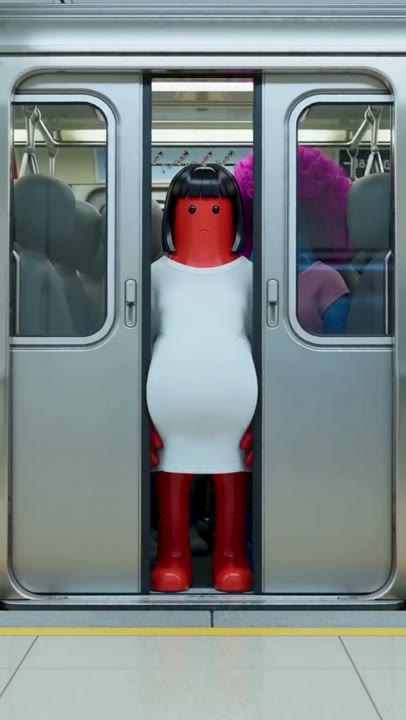
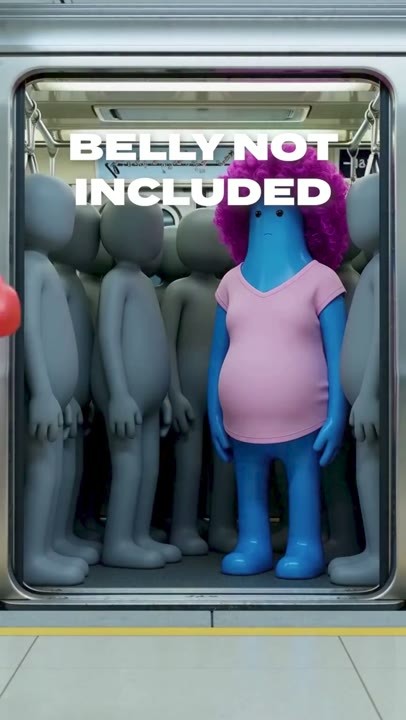
AI WORKS: UNKL belly thumbnail now uses the title-text frame

diff --git a/ai-works-data.js b/ai-works-data.js
@@ -61,7 +61,7 @@ window.AI_WORKS = {
                 { title: "할로윈", src: "videos/unkl-halloween.mp4", poster: "videos/posters/unkl-halloween.jpg", w: 960, h: 1728 },
                 { title: "ZERO DAMAGE", src: "videos/unkl-zero-damage.mp4", poster: "videos/posters/unkl-zero-damage.jpg", w: 864, h: 1536 },
                 { title: "FINAL", src: "videos/unkl-final.mp4", poster: "videos/posters/unkl-final.jpg", w: 864, h: 1536 },   /* title is temporary (from file name Final_rev) */
-                { title: "BELLY NOT INCLUDED", src: "videos/unkl-belly.mp4", poster: "videos/posters/unkl-belly.jpg", w: 864, h: 1536 }
+                { title: "BELLY NOT INCLUDED", src: "videos/unkl-belly.mp4", poster: "videos/posters/unkl-belly.jpg?v=2", w: 864, h: 1536 }
             ]
         },
         {
